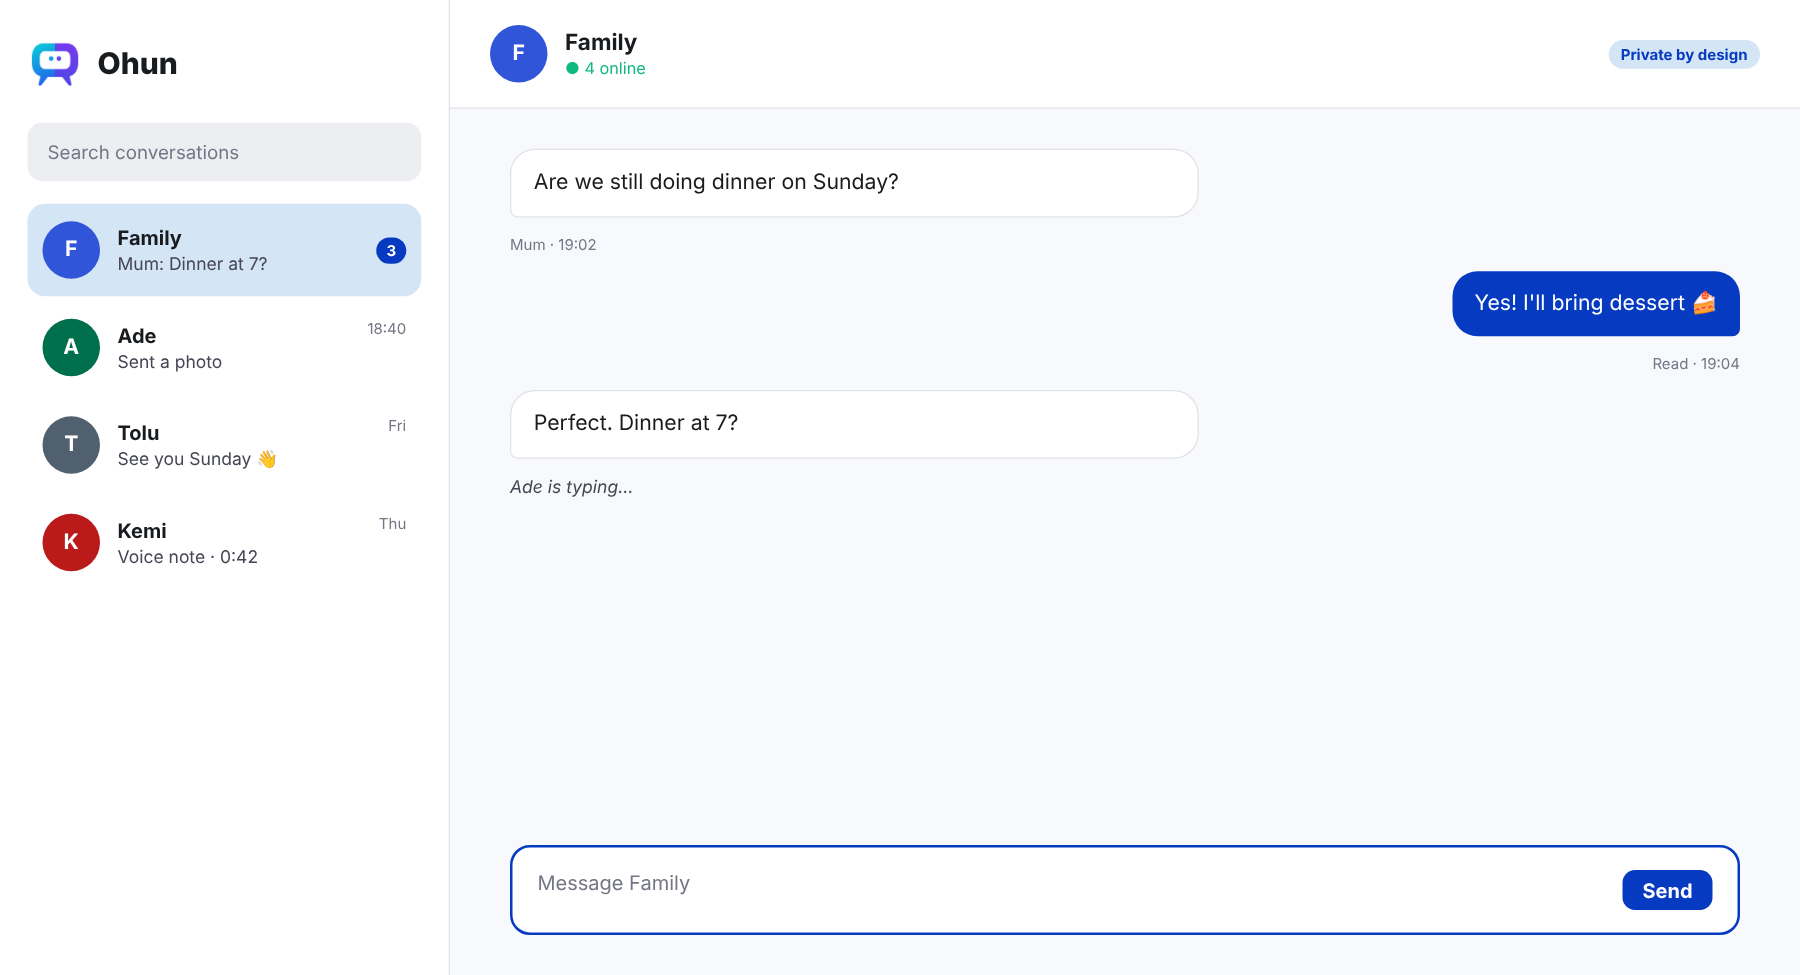
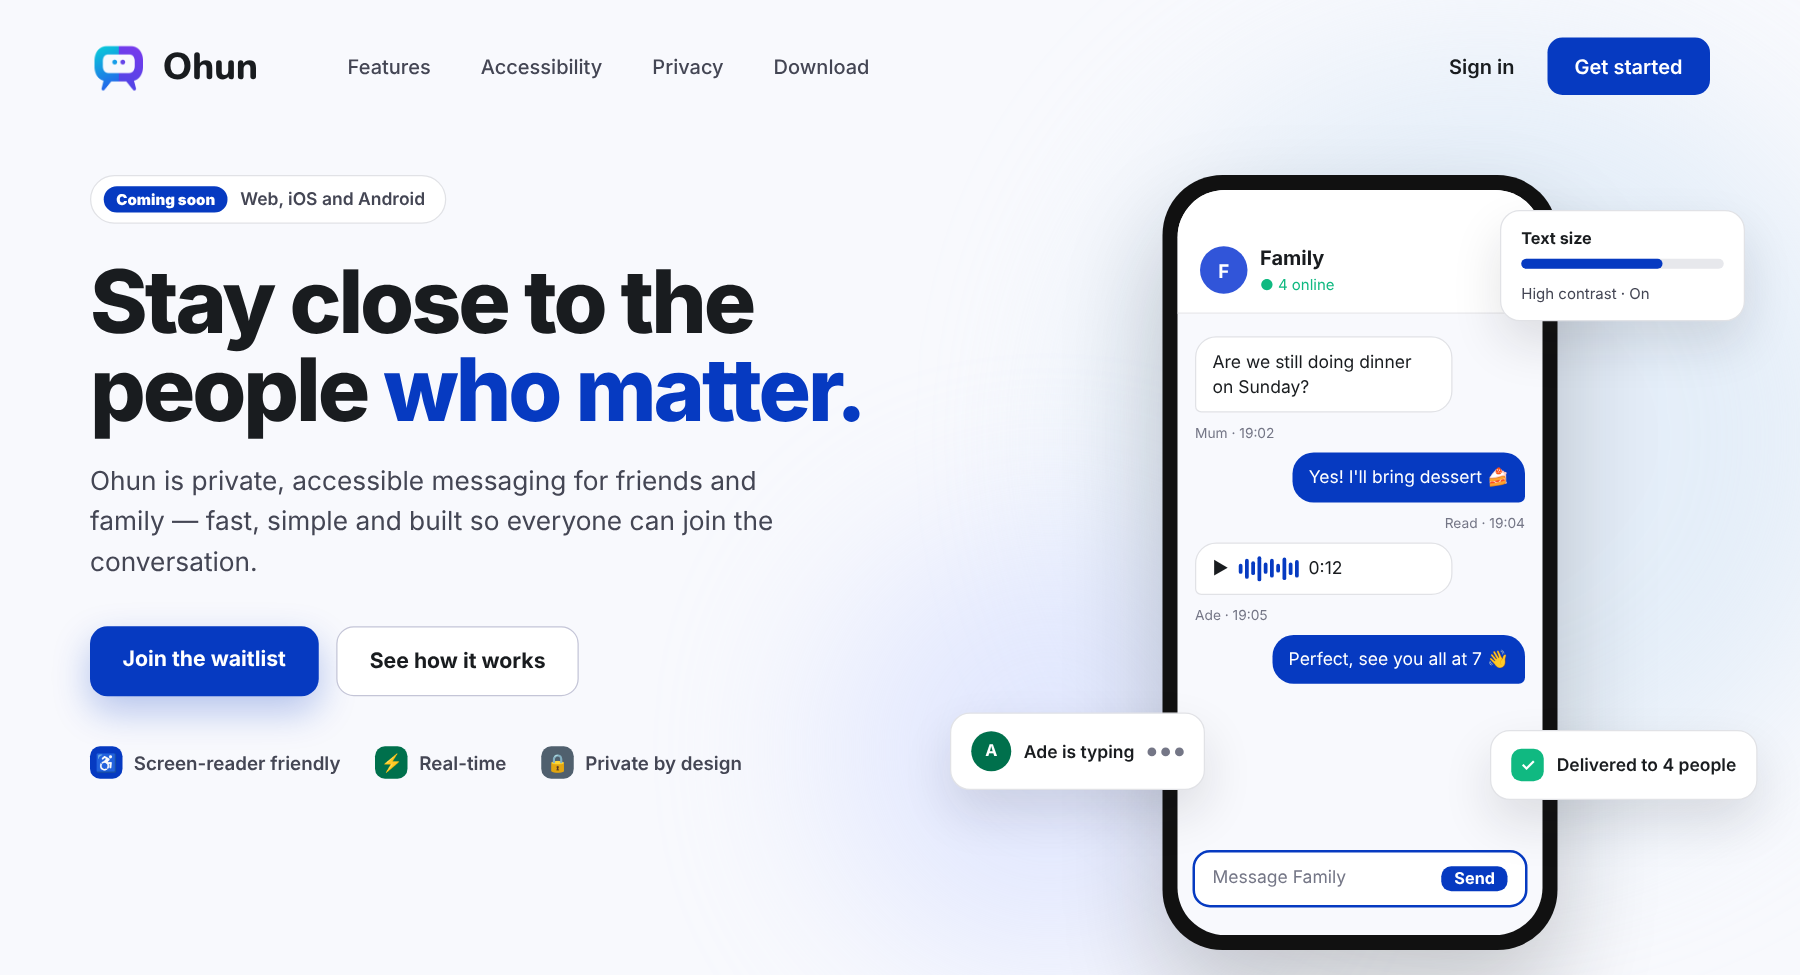
Use live Metheues screenshot and link; redesign Ohun preview as landing page
Claude-Session: https://claude.ai/code/session_019wsoSEpvPLDSYM1UvRDVVS

diff --git a/data/portfolio.ts b/data/portfolio.ts
@@ -107,16 +107,16 @@ export const projects = [
   {
     id: "05",
     name: "Metheues Clothings",
-    status: "In development · E-commerce",
+    status: "Live preview · E-commerce",
     summary:
-      "A T-shirt-first e-commerce storefront and admin, designed as one system in Figma and built to match it.",
+      "A T-shirt-first fashion label's storefront and admin, designed as one system in Figma and built to match it — now live as a preview.",
     contribution:
       "Design system, product design, database design, and full-stack engineering",
     stack: ["Next.js 15", "React 19", "TypeScript", "Supabase", "PostgreSQL", "Stripe", "Resend", "Figma"],
     impact:
       "A 64-screen Figma design system with 9 email templates. Business rules live in PostgreSQL rather than app code: stock can never go negative, idempotent Stripe webhooks decrement stock exactly once, and prices are only ever calculated on the server.",
     image: "/images/metheues.png",
-    demo: "",
+    demo: "https://metheuesclothing.vercel.app/",
     source: "https://github.com/dodomiyake/Metheuesclothing",
   },
   {
